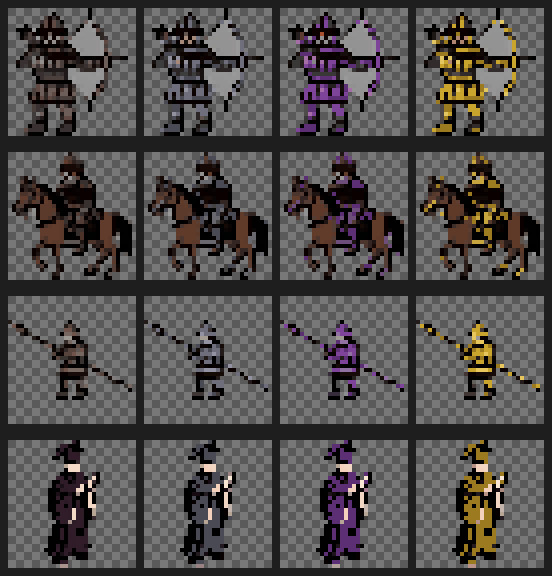
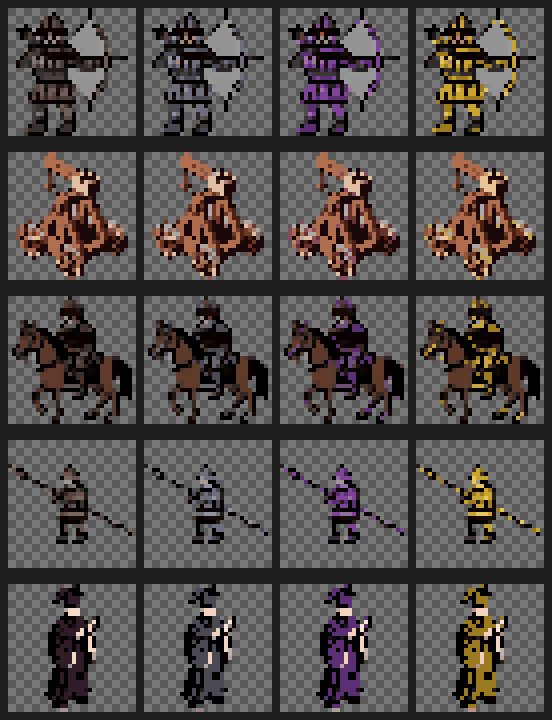
Add fortress wall parts, watchtower, catapult to asset pipeline
- raw 5종 추가: obj_wall_h/v/corner(성벽), obj_tower(망루),
  unit_catapult(발석차 — 진영 3벌 자동 생성)
- 성벽 부품 전용 처리: 배경 제거 → bbox 완전 크롭 → 코너 팔 두께 실측
  → 가로/세로 벽을 같은 두께 띠로 코너와 같은 변(하단/우측)에 정렬.
  가로벽은 끝 기둥(WALL_H_SPAN), 세로벽은 지붕 끝단(WALL_V_BAND)을
  잘라 중앙 반복 구간만 사용. 극단적 축소라 부품에 한해 BOX 축소 +
  알파 이진화, 코너 팔 끝 단면은 안쪽 단면으로 복제해 이음 정합
- _wall_assembly_preview.png: 잔디 위 ㅁ자 성곽(코너 4 + 벽 + 성문 +
  망루) 조립 검증 — 끊김·노치 없이 연속됨

Claude-Session: https://claude.ai/code/session_01VG2tRDR8zJrnQxsr3YNJTT

diff --git a/tools/asset_pipeline/process.py b/tools/asset_pipeline/process.py
@@ -142,6 +142,17 @@ FACTIONS = {
 # 밝기 → 램프 단계 매핑에 쓰는 원본 밝기 범위 (SWAP_SOURCE 명암 폭 기준)
 SWAP_LUMA_RANGE = (8.0, 125.0)
 
+# [성벽 부품] obj_wall_* 전용 처리 ---------------------------------------
+# 원본은 여백이 많아 그대로 축소하면 이어붙일 때 끊긴다. 배경 제거 후
+# 내용물 bbox 를 완전히 잘라내고, 코너의 팔 두께를 실측해 가로/세로 벽을
+# 같은 두께의 띠로 만들어 코너와 같은 변(하단/우측)에 정렬한다.
+#
+# 가로벽: 좌우 끝의 마감 기둥을 잘라 중앙 반복 구간만 (좌우가 칸 경계에 닿음)
+WALL_H_SPAN = (0.065, 0.935)   # bbox 가로 사용 구간 (비율)
+# 세로벽: 위아래 지붕 끝단 장식을 잘라 중앙 반복 구간만 (상하가 칸 경계에 닿음)
+WALL_V_BAND = (0.175, 0.775)   # bbox 세로 사용 구간 (비율)
+WALL_T_DEFAULT = 9             # 코너 실측 실패 시 벽 두께(px, 32 기준)
+
 # [타일] 배경화 톤 다운 — 지형은 무대, 유닛이 주인공 --------------------
 # 원본 processed/tile_*.png 는 보존하고 processed/toned/ 에 별도 출력한다.
 TONE_SATURATION = 0.70   # 채도 배율 (-30%)
@@ -214,6 +225,70 @@ def quantize(im: Image.Image, colors: int = QUANT_COLORS) -> Image.Image:
         a[a[..., 3] == 0] = 0
         out = Image.fromarray(a, "RGBA")
     return out
+
+
+def _content_bbox(im: Image.Image) -> Image.Image:
+    """불투명 내용물의 바운딩 박스로 완전히 잘라낸다."""
+    a = np.array(im)
+    ys, xs = np.nonzero(a[..., 3] > 0)
+    if len(xs) == 0:
+        return im
+    return im.crop((xs.min(), ys.min(), xs.max() + 1, ys.max() + 1))
+
+
+# 코너에서 실측한 팔 두께(px, 32 기준). 코너를 먼저 처리해 채운다.
+_wall_arm: dict[str, int] = {}
+
+
+def process_wall_piece(im: Image.Image, stem: str, size: tuple[int, int]) -> Image.Image:
+    """[성벽 부품 전용] bbox 크롭 → 반복 구간 절취 → 코너와 두께·정렬 맞춤.
+
+    - corner: bbox 를 그대로 32×32 로. 팔 두께(하단 h팔·우측 v팔)를 실측해 둔다
+    - h: 끝 기둥을 잘라낸 중앙 구간을 (32 × 팔두께) 로 눌러 타일 하단에 정렬
+    - v: 지붕 끝단을 잘라낸 중앙 구간을 (팔두께 × 32) 로 눌러 타일 우측에 정렬
+    이렇게 하면 코너의 하단 변은 h와, 우측 변은 v와 두께가 맞는다.
+    """
+    im = _content_bbox(im)
+    w, h = size
+
+    # 성벽은 극단적 축소(1300→32px 급)라 NEAREST 는 벽돌 무늬가 점멸한다.
+    # 부품에 한해 면적평균(BOX)으로 눌러 결을 남기고, 양자화로 색을 정리한다.
+    # BOX 가 만든 반투명 경계는 이진화해 픽셀아트의 딱 떨어지는 변을 지킨다.
+    def shrink(img: Image.Image, sz: tuple[int, int]) -> Image.Image:
+        a = np.array(img.resize(sz, Image.Resampling.BOX))
+        a[..., 3] = np.where(a[..., 3] >= 128, 255, 0)
+        a[a[..., 3] == 0] = 0
+        return Image.fromarray(a, "RGBA")
+
+    if stem == "obj_wall_corner":
+        out = quantize(shrink(im, size))
+        a = np.array(out)
+        # 안쪽 단면에서 팔 두께를 실측 (가장자리 열은 테이퍼가 있어 피한다)
+        th_ = _wall_arm["h"] = max(2, int((a[:, 3, 3] > 0).sum()))
+        tv_ = _wall_arm["v"] = max(2, int((a[3, :, 3] > 0).sum()))
+        # 팔 끝 2열/2행을 안쪽 단면으로 복제 — 직선벽과의 이음 단면을 일치시킨다
+        a[-th_:, 0] = a[-th_:, 2]
+        a[-th_:, 1] = a[-th_:, 2]
+        a[0, -tv_:] = a[2, -tv_:]
+        a[1, -tv_:] = a[2, -tv_:]
+        return Image.fromarray(a, "RGBA")
+
+    canvas = Image.new("RGBA", size, (0, 0, 0, 0))
+    if stem == "obj_wall_h":
+        t = _wall_arm.get("h", WALL_T_DEFAULT)
+        x0, x1 = (int(im.width * f) for f in WALL_H_SPAN)
+        # 끝 기둥의 상하 돌출이 bbox 에 남긴 투명 여백을 다시 잘라낸다
+        band = _content_bbox(im.crop((x0, 0, x1, im.height)))
+        band = quantize(shrink(band, (w, t)))
+        canvas.paste(band, (0, h - t))  # 코너의 h팔과 같은 하단 정렬
+    else:  # obj_wall_v
+        t = _wall_arm.get("v", WALL_T_DEFAULT)
+        y0, y1 = (int(im.height * f) for f in WALL_V_BAND)
+        # 지붕 처마 폭이 bbox 에 남긴 좌우 투명 여백을 다시 잘라낸다
+        band = _content_bbox(im.crop((0, y0, im.width, y1)))
+        band = quantize(shrink(band, (t, h)))
+        canvas.paste(band, (w - t, 0))  # 코너의 v팔과 같은 우측 정렬
+    return canvas
 
 
 def tone_down_tile(im: Image.Image) -> Image.Image:
@@ -404,6 +479,11 @@ def process_one(path: Path) -> dict | None:
         steps.append(f"scale:{size[0]}x{size[1]}")
         im = quantize(im)
         steps.append(f"quant:{QUANT_COLORS}")
+    elif stem.startswith("obj_wall_"):  # 성벽 부품 — 이어붙임 정합 전용 처리
+        im, bg_note = remove_background(im.convert("RGBA"), path.name)
+        steps.append(bg_note)
+        im = process_wall_piece(im, stem, size)
+        steps.append("wall:bbox크롭+정합")
     else:  # object / unit / portrait
         im, bg_note = remove_background(im.convert("RGBA"), path.name)
         steps.append(bg_note)
@@ -578,7 +658,66 @@ def make_previews() -> list[Path]:
     if rows:
         _stack_rows(rows).save(p4)
 
-    return [p1, p2, p3, p4]
+    p5 = make_wall_assembly_preview()
+    return [p for p in (p1, p2, p3, p4, p5) if p]
+
+
+def make_wall_assembly_preview() -> Path | None:
+    """성벽 부품 검증 — 녹색 배경 위에 ㅁ자 성곽 한 채를 조립한다.
+
+    코너 원본(팔이 왼쪽·위로 뻗는 우하 코너)을 뒤집어 네 모서리를 만들고,
+    벽 띠가 항상 성곽 바깥쪽 변에 붙도록 가로벽은 북쪽 변에서 상하 반전,
+    세로벽은 서쪽 변에서 좌우 반전한다. 끊김·어긋남이 보이면
+    WALL_H_SPAN·WALL_V_BAND 를 조정한다.
+    """
+    def load(name: str) -> Image.Image | None:
+        p = OUT_DIR / f"{name}.png"
+        return Image.open(p).convert("RGBA") if p.exists() else None
+
+    wh, wv, wc = load("obj_wall_h"), load("obj_wall_v"), load("obj_wall_corner")
+    if not (wh and wv and wc):
+        return None
+    gate, tower = load("obj_gate"), load("obj_tower")
+
+    cols, rows_n, t = 7, 5, 32
+    grass_path = OUT_DIR / "toned" / "tile_grass.png"
+    grass = Image.open(grass_path).convert("RGBA") if grass_path.exists() else None
+    board = Image.new("RGBA", (cols * t, rows_n * t), (96, 150, 96, 255))
+    if grass:
+        for gy in range(rows_n):
+            for gx in range(cols):
+                board.paste(grass, (gx * t, gy * t))
+
+    FLIP_H = Image.Transpose.FLIP_LEFT_RIGHT
+    FLIP_V = Image.Transpose.FLIP_TOP_BOTTOM
+    corner = {  # (칸 x, 칸 y) → 변형된 코너
+        (cols - 1, rows_n - 1): wc,                       # 우하 — 원본 방향
+        (0, rows_n - 1): wc.transpose(FLIP_H),            # 좌하
+        (cols - 1, 0): wc.transpose(FLIP_V),              # 우상
+        (0, 0): wc.transpose(Image.Transpose.ROTATE_180),  # 좌상
+    }
+    top_h = wh.transpose(FLIP_V)   # 북쪽 변 — 띠를 바깥(위)으로
+    west_v = wv.transpose(FLIP_H)  # 서쪽 변 — 띠를 바깥(왼쪽)으로
+
+    def put(img: Image.Image, gx: int, gy: int) -> None:
+        board.paste(img, (gx * t, gy * t), img)
+
+    for gx in range(1, cols - 1):
+        put(top_h, gx, 0)
+        put(wh, gx, rows_n - 1)
+    for gy in range(1, rows_n - 1):
+        put(west_v, 0, gy)
+        put(wv, cols - 1, gy)
+    for (gx, gy), img in corner.items():
+        put(img, gx, gy)
+    if gate:  # 남쪽 변 한가운데 성문 (2칸 폭)
+        board.paste(gate, ((cols // 2 - 1) * t, (rows_n - 1) * t), gate)
+    if tower:  # 북서 코너 위에 망루
+        put(tower, 0, 0)
+
+    p = OUT_DIR / "_wall_assembly_preview.png"
+    _scale(board.convert("RGB")).save(p)
+    return p
 
 
 # ---------------------------------------------------------------------------

diff --git a/tools/asset_pipeline/README.md b/tools/asset_pipeline/README.md
@@ -50,6 +50,14 @@ python tools/asset_pipeline/process.py --tone-only
    이미지 테두리에 연결된 픽셀만 플러드필로 제거한다(스프라이트 내부의 비슷한
    회색은 보존). 제거 후 테두리 잔존율이 `BG_RESIDUE_LIMIT`를 넘으면
    rembg가 설치된 경우 rembg로 폴백한다.
+4¼. **[성벽 부품 전용] `obj_wall_h`·`obj_wall_v`·`obj_wall_corner`** —
+   배경 제거 후 내용물 bbox 를 완전히 잘라내고, 코너의 팔 두께를 실측해
+   가로/세로 벽을 같은 두께의 띠로 만들어 코너와 같은 변(하단/우측)에
+   정렬한다. 가로벽은 끝 기둥(`WALL_H_SPAN`), 세로벽은 지붕 끝단
+   장식(`WALL_V_BAND`)을 잘라 중앙 반복 구간만 쓴다. 극단적 축소이므로
+   이 부품들만 NEAREST 대신 면적평균(BOX)으로 눌러 벽돌 결을 남긴다.
+   렌더러에서 이어 쓸 때: 띠는 바깥 변에 붙어 있으므로 북쪽 변은 가로벽을
+   상하 반전, 서쪽 변은 세로벽을 좌우 반전해 쓴다(코너는 반전 조합).
 4½. **[타일] 배경화 톤 다운** — 지형은 무대, 유닛이 주인공. 전체 타일의
    채도·대비를 낮추고 살짝 밝히며(`TONE_*`), 완전 검정 픽셀을
    `TONE_BLACK_FLOOR` 밝기까지 끌어올린다(숲·산의 검은 구멍 완화).
@@ -67,6 +75,7 @@ python tools/asset_pipeline/process.py --tone-only
 | `processed/_tiling_preview.png` | 각 타일 3×3 이어붙임 — 이음새 확인용 |
 | `processed/_faction_preview.png` | 유닛별 원본 + 고구려/백제/신라 나란히 |
 | `processed/_visibility_preview.png` | 어두운 지형(`VISIBILITY_TILES`) 3×3 위에 3진영 보병 — 가독성 확인용 |
+| `processed/_wall_assembly_preview.png` | 성벽 부품으로 ㅁ자 성곽 조립 (모서리 4 + 벽 + 성문 + 망루) — 이음 검증용 |
 
 ## 설정 항목 (`process.py` 상단 설정부)
 
@@ -78,6 +87,9 @@ python tools/asset_pipeline/process.py --tone-only
 | `BG_REFERENCE` | (145,145,145) | 배경 기준색 (자동 추정 실패 시 폴백) |
 | `BG_THRESHOLD` | 40 | 배경으로 간주할 색 거리 |
 | `BG_RESIDUE_LIMIT` | 0.02 | rembg 폴백을 발동하는 테두리 잔존 비율 |
+| `WALL_H_SPAN` | (0.065, 0.935) | 가로벽: bbox 중 사용할 가로 구간 (끝 기둥 제거) |
+| `WALL_V_BAND` | (0.175, 0.775) | 세로벽: bbox 중 사용할 세로 구간 (지붕 끝단 제거) |
+| `WALL_T_DEFAULT` | 9 | 코너 실측 실패 시 벽 두께(px) |
 | `TONE_SATURATION` | 0.70 | 톤 다운: 채도 배율 (-30%) |
 | `TONE_CONTRAST` | 0.65 | 톤 다운: 대비 배율 (-35%, 중심 128) |
 | `TONE_BRIGHTNESS` | 6 | 톤 다운: 밝기 가산 |
